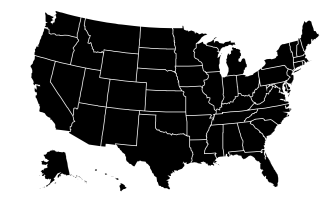
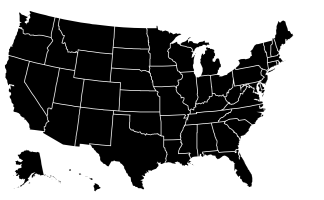
Use Alissa's better cartogram positions

Changed region(s): [[0.0, 0.06, 0.9877, 0.96], [0.2778, 0.9, 0.3086, 0.96], [0.3395, 0.87, 0.3704, 0.9]]

diff --git a/assets/javascripts/common/_cartogramData.js b/assets/javascripts/common/_cartogramData.js
@@ -1,2 +1,54 @@
 // http://codepen.io/asapwastaken/pen/yaZEqp
-module.exports = {AL:{a:9,x:355,y:255},AK:{a:3,x:50,y:365},AR:{a:6,x:270,y:210},AZ:{a:11,x:115,y:210},CA:{a:55,x:0,y:200},CO:{a:7,x:150,y:165},CT:{a:7,x:570,y:100},DC:{a:3,x:440,y:170},DE:{a:3,x:520,y:185},FL:{a:29,x:360,y:320},GA:{a:16,x:405,y:255},HI:{a:4,x:5,y:365},IA:{a:4,x:220,y:120},ID:{a:4,x:115,y:120},IL:{a:20,x:260,y:85},IN:{a:11,x:330,y:95},KS:{a:6,x:195,y:170},KY:{a:8,x:305,y:155},LA:{a:8,x:270,y:255},MA:{a:11,x:550,y:45},MD:{a:10,x:470,y:170},ME:{a:4,x:615,y:0},MI:{a:16,x:350,y:30},MN:{a:4,x:215,y:85},MO:{a:10,x:235,y:160},MS:{a:6,x:315,y:255},MT:{a:3,x:140,y:90},NC:{a:15,x:468,y:220},NE:{a:5,x:180,y:125},ND:{a:3,x:180,y:60},NH:{a:4,x:580,y:10},NJ:{a:14,x:510,y:100},NM:{a:5,x:170,y:215},NY:{a:29,x:465,y:10},NV:{a:6,x:70,y:155},OR:{a:7,x:70,y:110},OH:{a:11,x:385,y:100},OK:{a:7,x:210,y:212},PA:{a:20,x:440,y:100},RI:{a:4,x:615,y:95},SC:{a:9,x:470,y:280},SD:{a:3,x:180,y:92},TN:{a:11,x:325,y:200},TX:{a:38,x:175,y:255},UT:{a:6,x:110,y:155},VA:{a:13,x:410,y:200},VT:{a:3,x:550,y:10},WA:{a:12,x:60,y:50},WI:{a:10,x:260,y:35},WV:{a:5,x:380,y:160},WY:{a:3,x:150,y:120}};
+module.exports = {
+  AL: { a: 9, x: 363, y: 254 },
+  AK: { a: 3, x: 50, y: 365 },
+  AR: { a: 6, x: 289, y: 215 },
+  AZ: { a: 11, x: 117, y: 252 },
+  CA: { a: 55, x: 2, y: 180 },
+  CO: { a: 7, x: 170, y: 206 },
+  CT: { a: 7, x: 572, y: 98 },
+  DC: { a: 3, x: 445, y: 168 },
+  DE: { a: 3, x: 524, y: 189 },
+  FL: { a: 29, x: 390, y: 317 },
+  GA: { a: 16, x: 411, y: 254 },
+  HI: { a: 4, x: 80, y: 365 },
+  IA: { a: 4, x: 234, y: 85 },
+  ID: { a: 4, x: 115, y: 88 },
+  IL: { a: 20, x: 267, y: 88 },
+  IN: { a: 11, x: 337, y: 104 },
+  KS: { a: 6, x: 216, y: 172 },
+  KY: { a: 8, x: 343, y: 156 },
+  LA: { a: 8, x: 302, y: 294 },
+  MA: { a: 11, x: 550, y: 45 },
+  MD: { a: 10, x: 474, y: 168 },
+  ME: { a: 4, x: 615, y: 2 },
+  MI: { a: 16, x: 357, y: 38 },
+  MN: { a: 4, x: 233, y: 38 },
+  MO: { a: 10, x: 257, y: 158 },
+  MS: { a: 6, x: 323, y: 254 },
+  MT: { a: 3, x: 143, y: 38 },
+  NC: { a: 15, x: 474, y: 218 },
+  NE: { a: 5, x: 200, y: 120 },
+  ND: { a: 3, x: 187, y: 38 },
+  NH: { a: 4, x: 582, y: 12 },
+  NJ: { a: 14, x: 513, y: 98 },
+  NM: { a: 5, x: 170, y: 249 },
+  NY: { a: 29, x: 466, y: 14 },
+  NV: { a: 6, x: 117, y: 167 },
+  OR: { a: 7, x: 70, y: 110 },
+  OH: { a: 11, x: 390, y: 101 },
+  OK: { a: 7, x: 246, y: 212 },
+  PA: { a: 20, x: 443, y: 98 },
+  RI: { a: 4, x: 614, y: 92 },
+  SC: { a: 9, x: 474, y: 279 },
+  SD: { a: 3, x: 187, y: 79 },
+  TN: { a: 11, x: 343, y: 201 },
+  TX: { a: 38, x: 207, y: 255 },
+  UT: { a: 6, x: 130, y: 212 },
+  VA: { a: 13, x: 417, y: 197 },
+  VT: { a: 3, x: 553, y: 12 },
+  WA: { a: 12, x: 60, y: 38 },
+  WI: { a: 10, x: 284, y: 38 },
+  WV: { a: 5, x: 404, y: 160 },
+  WY: { a: 3, x: 156, y: 127 }
+}

diff --git a/raw-assets/usa-map/index.js b/raw-assets/usa-map/index.js
@@ -74,7 +74,7 @@ function projectGeometry(geom, projection) {
 
 const projection = d3_geo.geoAlbersUsa()
 const AlbersUsaUnderscaling = 0.9 // D3's AlbersUsa is too small
-const AlbersUsaXError = -0.08 // D3's AlbersUsa shifts too far left
+const AlbersUsaXError = 0.08 // We need more space on the right, for labels
 projection.scale(projection.scale() * Width / projection.translate()[0] / 2 / AlbersUsaUnderscaling)
 projection.translate([ Width / 2 * (1 - AlbersUsaXError), Height / 2 ])
 
